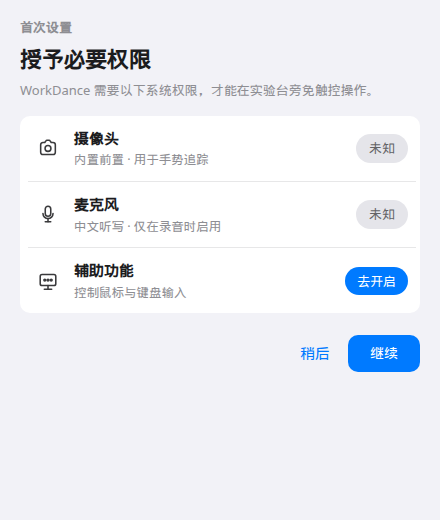
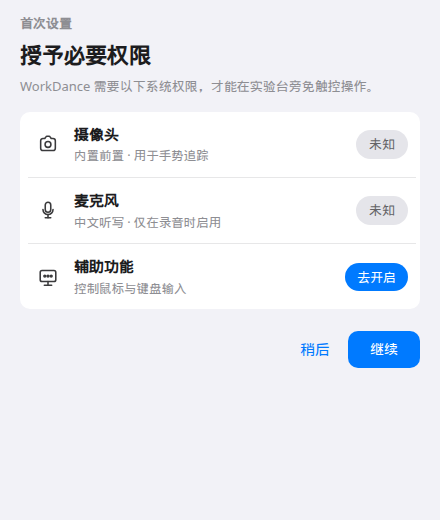
fix: hard-fix settings tip + gray permissions eyebrow screenshots
Delete settings tip banner from shipped HTML (no docs/ui-apple notice).
Force permissions 「首次设置」 to #8E8E93 via CSS + inline style.
Recapture docs/ui-apple PNGs with cache-busting; new SHA256s.

diff --git a/apps/desktop/ui/permissions.html b/apps/desktop/ui/permissions.html
@@ -4,11 +4,11 @@
   <meta charset="UTF-8" />
   <meta name="viewport" content="width=device-width, initial-scale=1.0" />
   <title>首次设置</title>
-  <link rel="stylesheet" href="styles.css" />
+  <link rel="stylesheet" href="styles.css?v=apple-lumen-nits" />
 </head>
 <body class="skin-apple">
   <header class="perm-header">
-    <div class="eyebrow">首次设置</div>
+    <div class="eyebrow" style="color:#8E8E93">首次设置</div>
     <h1>授予必要权限</h1>
     <p class="sub">WorkDance 需要以下系统权限，才能在实验台旁免触控操作。</p>
   </header>

diff --git a/apps/desktop/ui/styles.css b/apps/desktop/ui/styles.css
@@ -508,7 +508,7 @@ body.skin-apple {
     "Helvetica Neue", "PingFang SC", "Hiragino Sans GB", "Microsoft YaHei", sans-serif;
   --display: var(--font);
   color: var(--text);
-  padding: 18px 20px 22px;
+  padding: 14px 20px 20px;
   min-height: 100vh;
 }
 
@@ -524,7 +524,7 @@ body.skin-apple h1 {
   color: var(--text);
 }
 body.skin-apple .eyebrow {
-  color: #8e8e93;
+  color: #8E8E93 !important;
   font-size: 13px;
   font-weight: 600;
   letter-spacing: 0;

diff --git a/apps/desktop/ui/settings.html b/apps/desktop/ui/settings.html
@@ -4,7 +4,7 @@
   <meta charset="UTF-8" />
   <meta name="viewport" content="width=device-width, initial-scale=1.0" />
   <title>WorkDance 设置</title>
-  <link rel="stylesheet" href="styles.css" />
+  <link rel="stylesheet" href="styles.css?v=apple-lumen-nits" />
 </head>
 <body class="skin-apple">
   <div id="visionBanner" class="banner" hidden></div>
